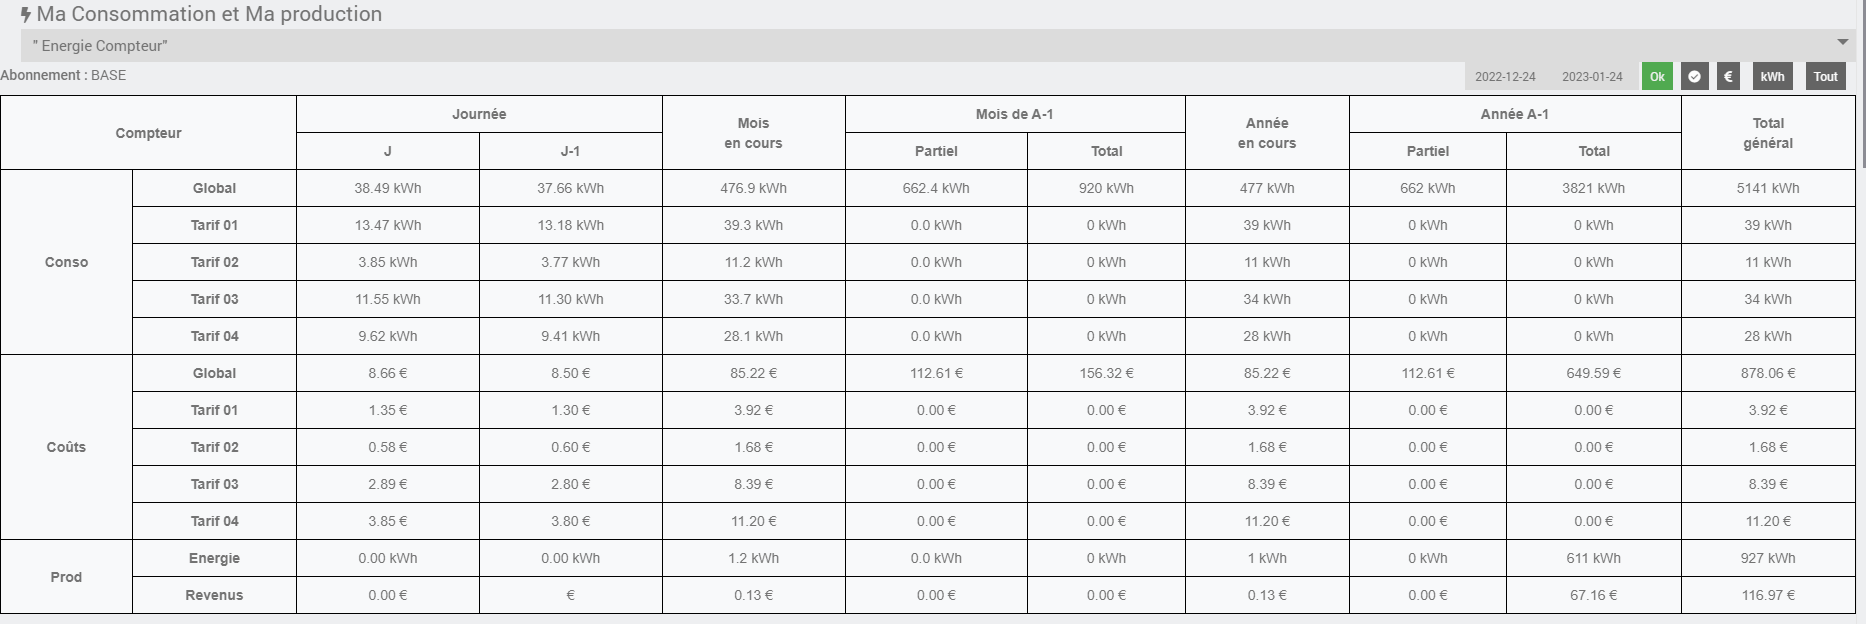
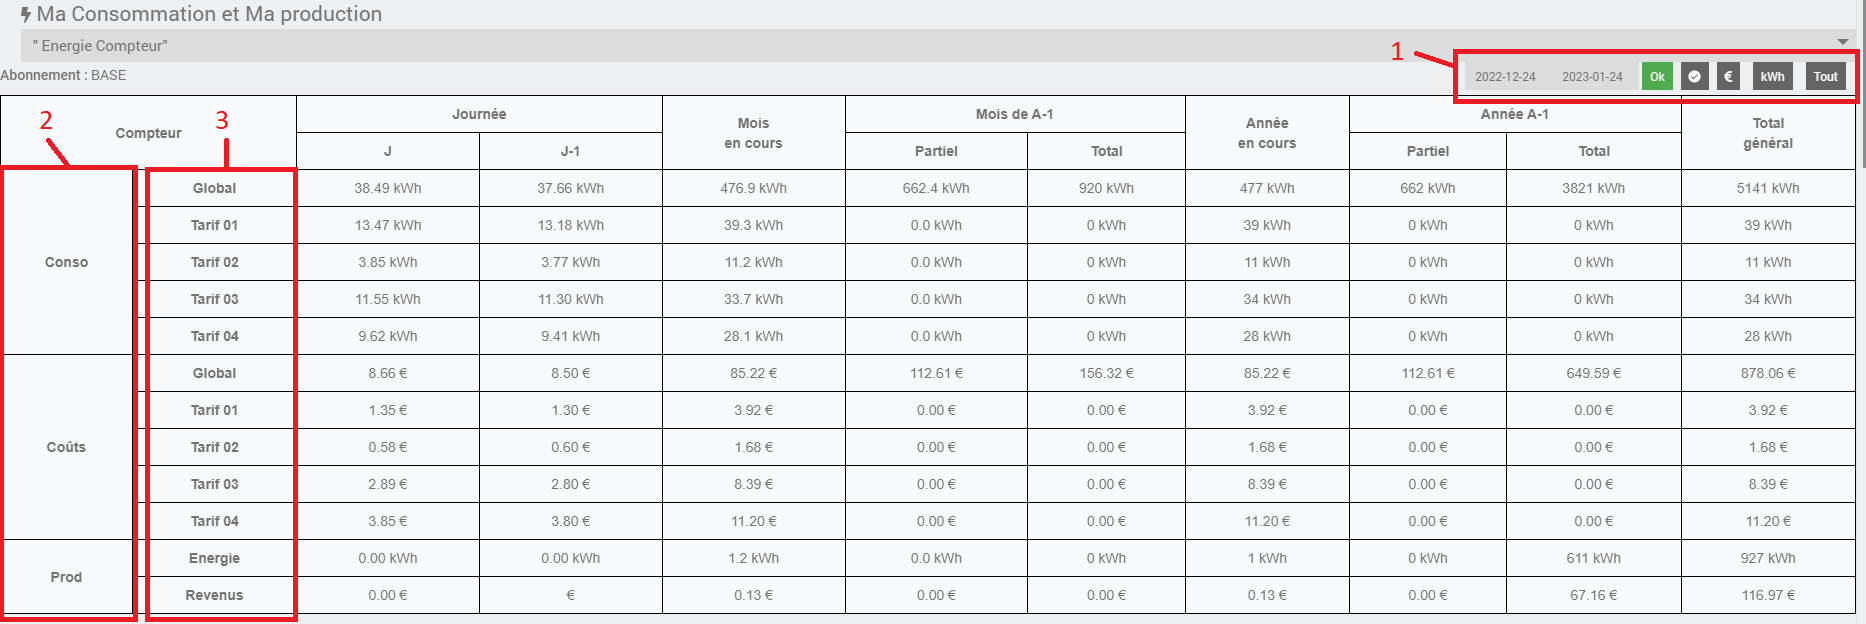
4.7.3
denières modif

Changed region(s): [[0.0, 0.2436, 0.1554, 1.0], [0.746, 0.0609, 1.0, 0.1827]]

diff --git a/core/ajax/teleinfo.ajax.php b/core/ajax/teleinfo.ajax.php
@@ -184,11 +184,12 @@ try {
 			$return = array();
             $minParHeure = array();
 			$valuesClean = 0;
+            $donneeOptimized = init('logicalId');
             if (init('id') !== '') {
                 event::add('jeedom::alert', array(
                         'level' => 'warning',
                         'page' => 'teleinfo',
-                        'message' => __('Optimisation de l\'historique, cela peut prendre du temps.', __FILE__),
+                        'message' => __('Optimisation de l\'historique de '.$donneeOptimized.', cela peut prendre du temps.', __FILE__),
                 ));
                 
                 //compter le nb de ligne
@@ -198,9 +199,12 @@ try {
                 );
                 $valeursDepartDB = DB::Prepare($sql, $values, DB::FETCH_TYPE_ROW);
                 $valeursDepart = $valeursDepartDB['COUNT(*)'];
-            
-                //test si on a affaire à un stat_yesterday
-                if (!strpos(init('logicalId'), 'STAT_YESTERDAY')){
+                
+                
+//        if (strpos(init('logicalId'), 'STAT_') == 15000){
+
+                //test si on a affaire à un stat_
+                if (strpos(init('logicalId'), 'STAT_') !== 0){
                     //sélectionne le min par heure
                     if (init('type') != "AVG"){
                         $sql = "SELECT cmd_id,datetime,value FROM historyArch WHERE (cmd_id=:cmdId) GROUP BY YEAR(datetime),MONTH(datetime),DAY(datetime),HOUR(datetime)";
@@ -250,7 +254,7 @@ try {
                         );
                         $replaceValues = DB::Prepare($sql, $values, DB::FETCH_TYPE_ROW);
                     }
-                    if (init('type') != "AVG"){
+                    if (init('type') !== "AVG"){
                         foreach ($maxJournee as $cle2 => $valeur2){
                             $sql = "REPLACE INTO historyArch SET cmd_id=:cmdId,datetime=:newDatetime,value=:newValue";
                             $values = array(
@@ -262,46 +266,94 @@ try {
                         }
                     }
                 }else{
-                    //si on a affaire à des 'stat_yesterday' alors il ne faut garder que le max de la journée
-                    $sql = "SELECT cmd_id,datetime,max(value) as value FROM historyArch WHERE (cmd_id=:cmdId) GROUP BY YEAR(datetime),MONTH(datetime),DAY(datetime)";
-                    $values = array(
-                                'cmdId' => init('id'),
-                    );
-                    $minParJour = DB::Prepare($sql, $values, DB::FETCH_TYPE_ALL);
-                    event::add('jeedom::alert', array(
-                        'level' => 'warning',
-                        'page' => 'teleinfo',
-                        'message' => __('Les données sont stockées dans une variable, passons à la suppression du superflu, la phase la plus longue...', __FILE__),
-                    ));
-        
-                    // Nettoyage de toutes les valeurs
-                    $sql = "DELETE FROM historyArch WHERE cmd_id=:cmdId";
-                    $values = array(
+                    if (strpos(init('logicalId'), 'STAT_YESTERDAY') === 0){
+                        //si on a affaire à des 'stat_yesterday' alors il ne faut garder que le max de la journée
+                        $sql = "SELECT cmd_id,datetime,max(value) as value FROM historyArch WHERE (cmd_id=:cmdId) GROUP BY YEAR(datetime),MONTH(datetime),DAY(datetime)";
+                        $values = array(
                                     'cmdId' => init('id'),
-                    );
-                    $deleteValues = DB::Prepare($sql, $values, DB::FETCH_TYPE_ROW);
-                    event::add('jeedom::alert', array(
+                        );
+                        $minParJour = DB::Prepare($sql, $values, DB::FETCH_TYPE_ALL);
+                        event::add('jeedom::alert', array(
                             'level' => 'warning',
                             'page' => 'teleinfo',
-                            'message' => __('Les anciennes données sont supprimées, passons à la remise en place des valeurs stockées)', __FILE__),
-                    ));
-
-                    //remise des données purgées en place
-                    $valuesClean=0;
-                    foreach ($minParJour as $cle => $valeur) {
-                        $sql = "REPLACE INTO historyArch SET cmd_id=:cmdId,datetime=:newDatetime,value=:newValue";
+                            'message' => __('Les données sont stockées dans une variable, passons à la suppression du superflu, la phase la plus longue...', __FILE__),
+                        ));
+            
+                        // Nettoyage de toutes les valeurs
+                        $sql = "DELETE FROM historyArch WHERE cmd_id=:cmdId";
                         $values = array(
-                            'cmdId' => init('id'),
-                            'newDatetime' => date('Y-m-d 00:00:00', strtotime($valeur['datetime'])),
-                            'newValue' => $valeur['value'],
+                                        'cmdId' => init('id'),
                         );
-                        $replaceValues = DB::Prepare($sql, $values, DB::FETCH_TYPE_ROW);
+                        $deleteValues = DB::Prepare($sql, $values, DB::FETCH_TYPE_ROW);
+                        event::add('jeedom::alert', array(
+                                'level' => 'warning',
+                                'page' => 'teleinfo',
+                                'message' => __('Les anciennes données sont supprimées, passons à la remise en place des valeurs stockées)', __FILE__),
+                        ));
+
+                        //remise des données purgées en place
+                        $valuesClean=0;
+                        foreach ($minParJour as $cle => $valeur) {
+                            $sql = "REPLACE INTO historyArch SET cmd_id=:cmdId,datetime=:newDatetime,value=:newValue";
+                            $values = array(
+                                'cmdId' => init('id'),
+                                'newDatetime' => date('Y-m-d 00:00:00', strtotime($valeur['datetime'])),
+                                'newValue' => $valeur['value'],
+                            );
+                            $replaceValues = DB::Prepare($sql, $values, DB::FETCH_TYPE_ROW);
+                        }
+                    }else{
+                        if (strpos(init('logicalId'), 'STAT_TODAY') === 0){
+                            //si on a affaire à des 'stat_today' alors il ne faut garder que le max de chaque heure
+                            $sql = "SELECT cmd_id,datetime,max(value) as value FROM historyArch WHERE (cmd_id=:cmdId) GROUP BY YEAR(datetime),MONTH(datetime),DAY(datetime),HOUR(datetime)";
+                            $values = array(
+                                'cmdId' => init('id'),
+                            );
+                            $maxParHeure = DB::Prepare($sql, $values, DB::FETCH_TYPE_ALL);
+                            event::add('jeedom::alert', array(
+                                'level' => 'warning',
+                                'page' => 'teleinfo',
+                                'message' => __('Les données sont stockées dans une variable, passons à la suppression du superflu, la phase la plus longue...', __FILE__),
+                            ));
+                
+                            // Nettoyage de toutes les valeurs
+                            $sql = "DELETE FROM historyArch WHERE cmd_id=:cmdId";
+                            $values = array(
+                                            'cmdId' => init('id'),
+                            );
+                            $deleteValues = DB::Prepare($sql, $values, DB::FETCH_TYPE_ROW);
+                            event::add('jeedom::alert', array(
+                                    'level' => 'warning',
+                                    'page' => 'teleinfo',
+                                    'message' => __('Les anciennes données sont supprimées, passons à la remise en place des valeurs stockées)', __FILE__),
+                            ));
+    
+                            //remise des données purgées en place
+                            $valuesClean=0;
+                            foreach ($maxParHeure as $cle => $valeur) {
+                                $sql = "REPLACE INTO historyArch SET cmd_id=:cmdId,datetime=:newDatetime,value=:newValue";
+                                $values = array(
+                                    'cmdId' => init('id'),
+                                    'newDatetime' => date('Y-m-d H:00:00', strtotime($valeur['datetime'])),
+                                    'newValue' => $valeur['value'],
+                                );
+                                $replaceValues = DB::Prepare($sql, $values, DB::FETCH_TYPE_ROW);
+                            }
+                        }
                     }
 
-
                 }
-
-                //compter le nb de ligne
+/*            }else{
+                
+                if (strpos(init('logicalId'),'STAT_YESTERDAY')===0){
+                event::add('jeedom::alert', array(
+                    'level' => 'warning',
+                    'page' => 'teleinfo',
+                    'message' => __('ne trouve pas stat. Type= '.init('type').' Id = '.init('id').' stat today= '.(strpos(init('logicalId'),'STAT_TODAY')).' stat yesterday= '.(strpos(init('logicalId'),'STAT_YESTERDAY')), __FILE__),
+                ));
+                }
+            }
+*/                //compter le nb de ligne
                 $sql = "SELECT COUNT(*) FROM historyArch WHERE cmd_id=:cmdId";
                 $values = array(
                     'cmdId' => init('id'),

diff --git a/docs/fr_FR/index/index.md b/docs/fr_FR/index/index.md
@@ -220,8 +220,9 @@ Si le nombre affiché dans la colonne "A lisser" est supérieur à 1 000 alors c
 
 L'action de ce bouton dépend de:
 - la commande est une des "STAT_YESTERDAY-***" : prend la valeur max de la journée et la recopie sur cette même journée à 00h 00mn 00s
+- la commande est une des "STAT_TODAY-***" : prend la valeur max de l'heure' et la recopie sur cette même heure à 00mn 00s
 - le mode de lissage a été paramétré sur "AVG" (moyenne): prend la valeur moyenne sur chaque intervalle horaire puis la replace à chaque heure à 00mn et 00s
-- le mode de lissage n'est pas paramétré: prend le min de chaque heure et le remplace à chaque heure corraspondante à 00mn 00s ET prend le max de la journée et le remplace sur cette journée à 23h 59mn 59s
+- le mode de lissage n'est pas paramétré: prend le min de chaque heure et le remplace à chaque heure correspondante à 00mn 00s ET prend le max de la journée et le replace sur cette journée à 23h 59mn 59s
 <br><br>
 
 
@@ -344,7 +345,77 @@ Une fois que vous aurez fini de configurer les 3 premiers points ci-dessus vous 
 - si possible allez voir dans le panel si les données sont conformes à ce que vous attendez.
 <br><br><br><br><br><br><br><br><br><br><br><br><br><br><br>
 
+# Le panel
+<br><br>
 
+<a href="../../images/teleinfo_panel01.png">
+<img src="../../images/teleinfo_panel01.png" alt="configuration" style="width:600px;"/>
+<a>
+<br><br>
+
+## (1) Les options
+<br><br>
+
+**Les dates:** permettent de sélectionner la plage de temps concernant les différents graphique. Ne joue par sur le tableau des données.
+<br><br>
+
+**Le bouton €:** ne garde l'affichage que pour les données relatives aux coûts aussi bien sur le graphique que dans le tableau
+<br><br>
+
+**le bouton kWh:** ne garde l'affichage que pour les données relatives aux consommations aussi bien sur le graphique que dans le tableau
+<br><br>
+
+**le bouton "tout":** remet l'affichage de toutes les données de conso et de coûts
+<br><br>
+
+## (2) Les rubriques
+<br><br>
+
+Il y en a au moins deux qui seront affichées, les données relatives à la production ne seront affichées que si cette option est choisie dans les paramètres du compteur
+<br><br>
+
+## (3) les index:
+<br><br>
+
+Correspondent aux libellés qui auront été saisies dans les paramètres du compteur
+<br><br>
+
+# Les courbes
+<br><br>
+
+Voici les courbes que vous pourrez avoir:
+
+**Instantanées:**
+<br><br>
+
+<a href="../../images/teleinfo_panel02.png">
+<img src="../../images/teleinfo_panel02.png" alt="configuration" style="width:600px;"/>
+<a>
+<br><br>
+
+**Journalières:**
+<br><br>
+
+<a href="../../images/teleinfo_panel03.png">
+<img src="../../images/teleinfo_panel03.png" alt="configuration" style="width:600px;"/>
+<a>
+<br><br>
+
+**Mensuelles:**
+<br><br>
+
+<a href="../../images/teleinfo_panel04.png">
+<img src="../../images/teleinfo_panel04.png" alt="configuration" style="width:600px;"/>
+<a>
+<br><br>
+
+**Annuelles:**
+<br><br>
+
+<a href="../../images/teleinfo_panel05.png">
+<img src="../../images/teleinfo_panel05.png" alt="configuration" style="width:600px;"/>
+<a>
+<br><br><br><br><br><br><br><br><br><br><br><br>
 
 
 # [Retour à la documentation principale](/plugin-teleinfo/fr_FR/)
